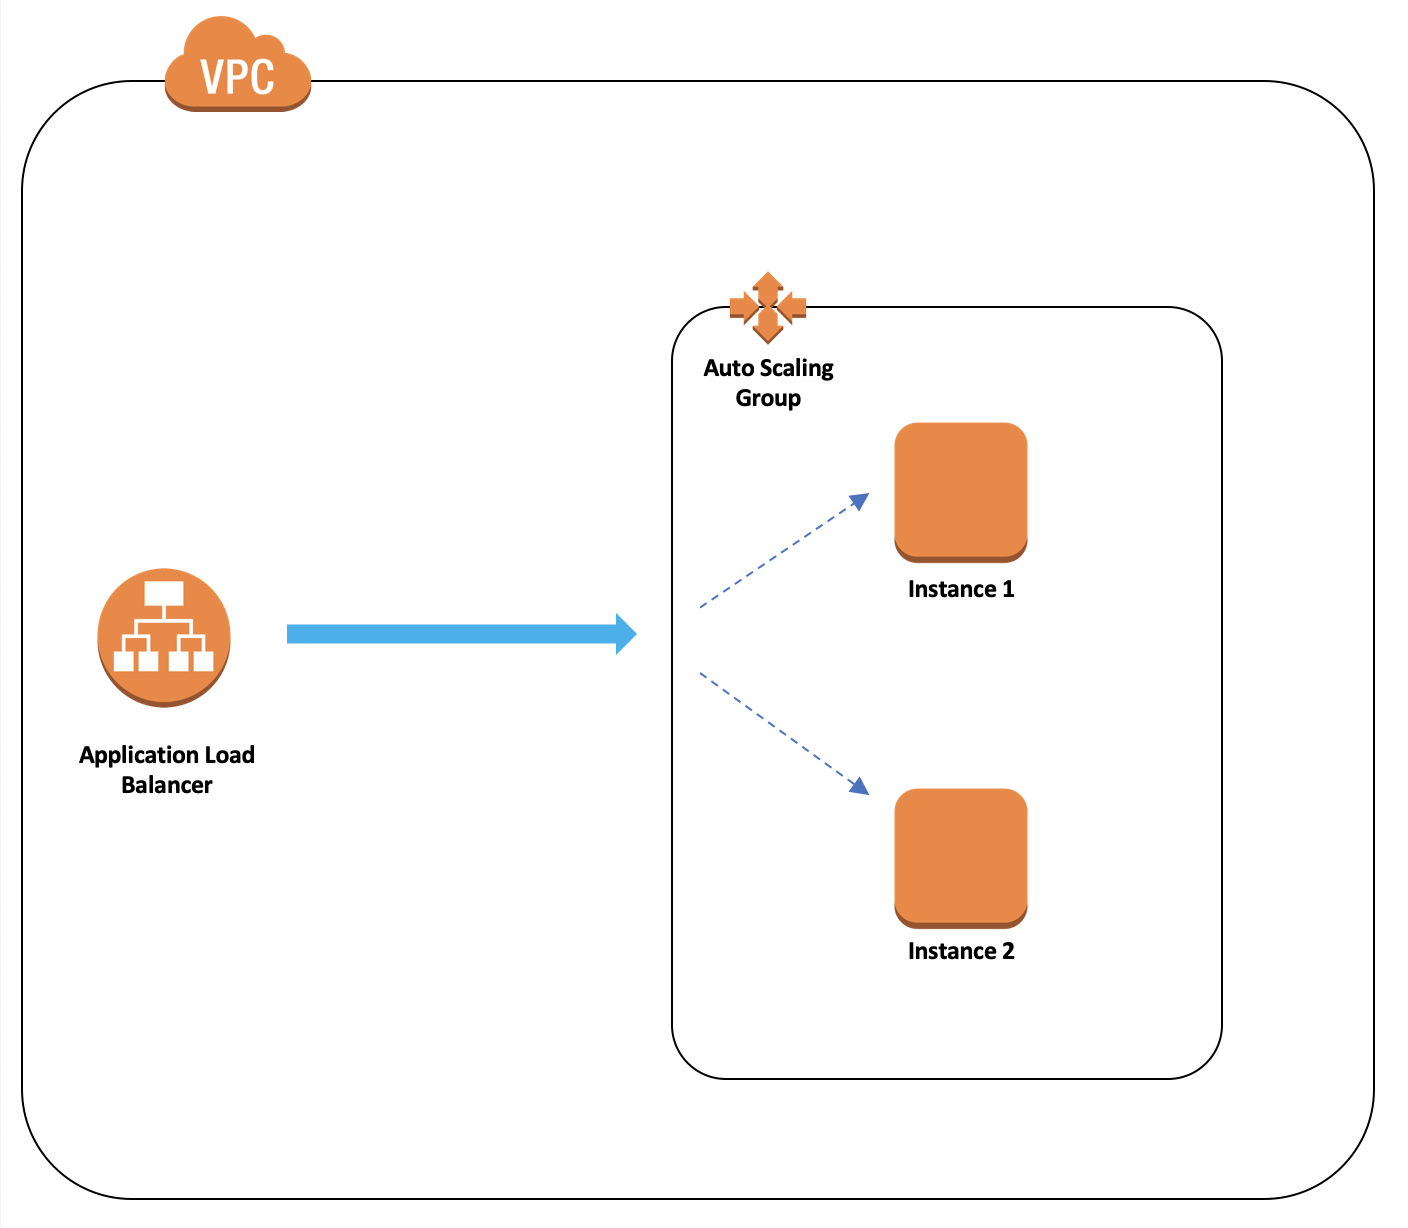
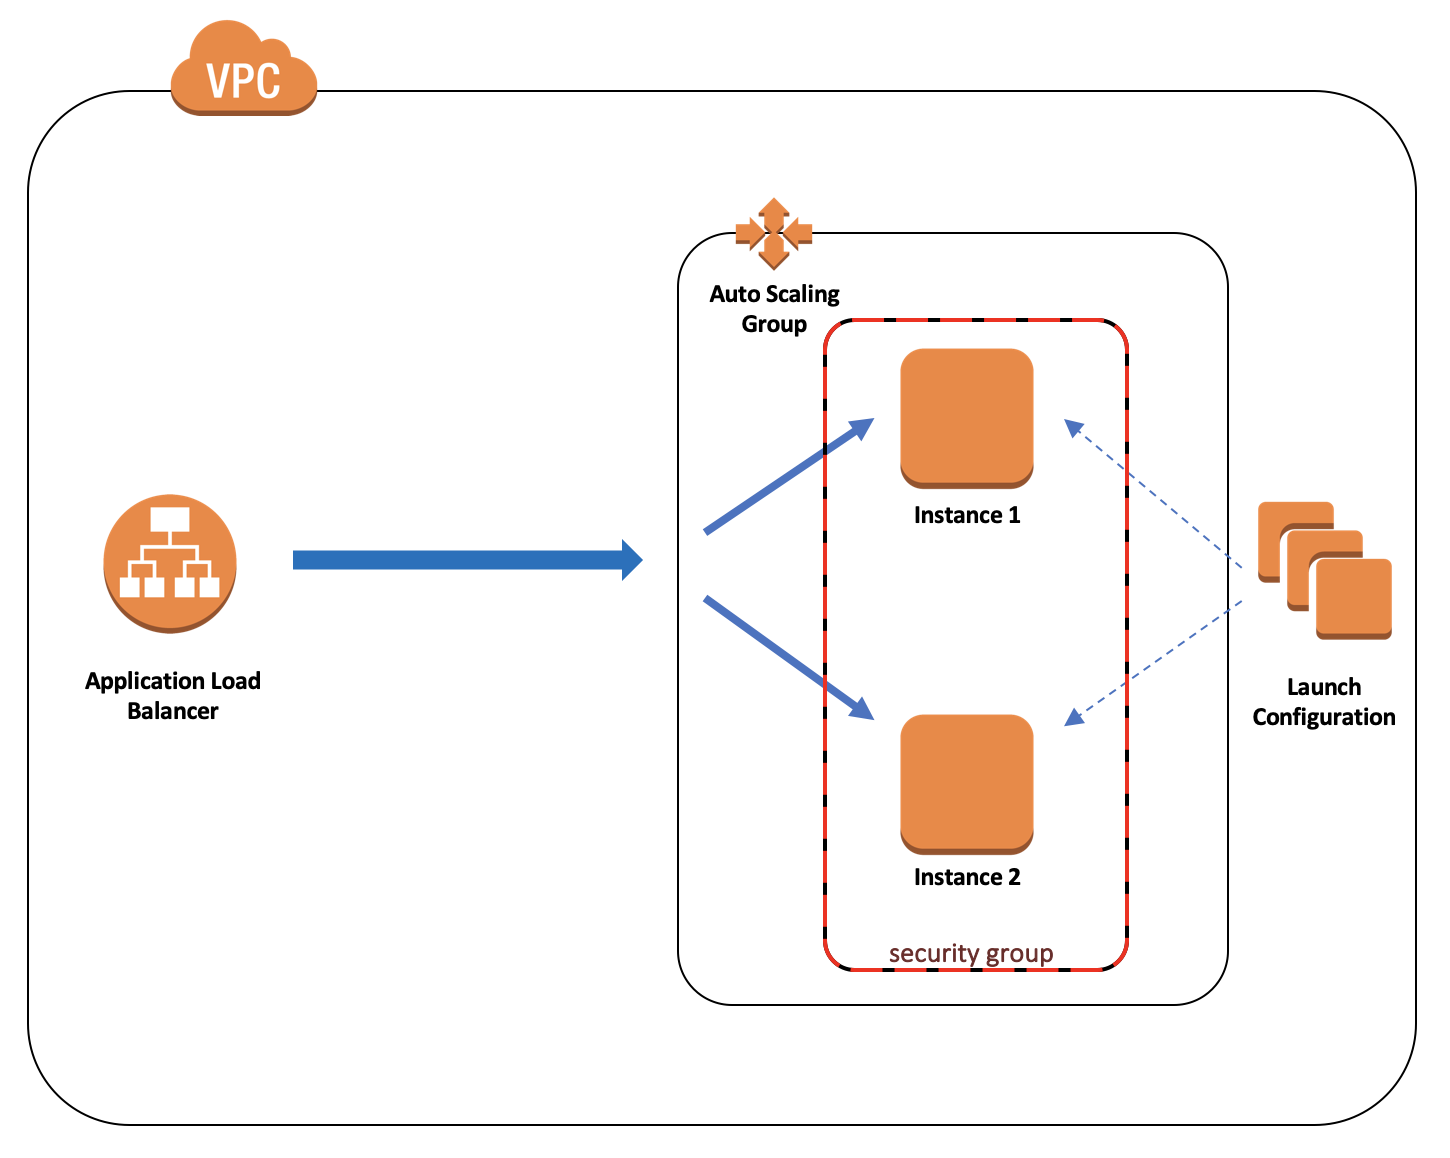
Lab finalized

diff --git a/README.md b/README.md
@@ -11,17 +11,24 @@ That will cover the following topics:
 This lab will take approximately 60 minutes.
 
 ## Overview of technology
-AWS EC2 is usually referenced to a set of services built around virtual machines, some of which are:
+AWS EC2 is usually referenced to a set of services built around virtual machines. Some important terms related to EC2 service and which we'll use in the lab include:
 - EC2 - instances of virtual machines
-- EBS - a block storage, basically virtual disks (and their snapshots) which could be attached to EC2 instances
+- EBS - a block storage, basically virtual disks (and their snapshots) which could be attached to EC2 instances (not used in this lab)
 - AMI - images of EC2 instances
-- ELB - load balancers
-- ASG - auto scaling groups, abstraction which allows to scale up and down the number of the EC2 instances based on different parameters
+- ELB (ALB) - elastic (application) load balancers, balance traffic between instances
+- TG - target groups, rules used by ALB to define path of a network traffic
+- ASG - auto scaling groups, abstraction which allows to scale up and down the number of EC2 instances based on different parameters
+- LC - launch configuration, contains details of instances to be created by ASG
+- SG - security groups, abstraction which manages inbound and outbound network traffic rules
 
 Let's spin up some EC2 instances to see how it works
-## Launch a standalone EC2 instance
+
+## **_Exercise 1:_ Create a simple website on a standalone EC2 instance**
+This is a basic scenario, but it's important to understand main concepts and be able to tackle more complex cases<br>
 Our HTTP server will consist of a single host and be based on Apache HTTP server<br>
 Let's do that!
+
+### Launch an EC2 instance
 * Open https://console.aws.amazon.com/ and log in to your AWS account<br>
 * Select Services -> EC2 in drop down menu or search for EC2 in service finder
 * In opened page you will see a EC2 home page and also a list of services on the left and
@@ -35,7 +42,7 @@ Awesome! You've gone through the steps and created a EC2 instance!<br>
 Now you can see it in the instances list:<br>
 ![Running](images/ec2-running.png "Running")<br>
 
-## Create a simple HTTP server
+### Create a simple HTTP server
 Having a EC2 instance running, let's now install and launch a Apache HTTP server with a simple page:
 * In AWS Console, go to EC2 service and find your EC2 instance. Click on it and on Description tab find and copy a `IPv4 Public IP` field value. We'll be referencing this value as `<your_ec2_ip>`
 * Open your terminal and type `ssh ec2-user@<your_ec2_ip> -i <path_to_credentials>` where <br>
@@ -70,7 +77,7 @@ The last thing you need is to allow external HTTP traffic to your EC2 instance -
 Now copy `Public DNS (IPv4)` value from your instance and paste into URL of your browser - you should be able to see your HTML page!<br>
 ![Awesome](images/ec2-awesome.png "Awesome")<br>
 
-## Stop instance via AWS CLI
+### Terminate instance via AWS CLI
 Before we move forward, let's cleanup our workspace and terminate our EC2 instance. The only trick is that we're going to use command line for that<br>
 Assuming you've [installed](https://docs.aws.amazon.com/cli/latest/userguide/installing.html) and [configured](https://docs.aws.amazon.com/cli/latest/userguide/cli-chap-getting-started.html
 ) AWS CLI, commands will be as follows:
@@ -84,40 +91,101 @@ A bit more code, huh?? But we've got only values we need: `InstanceId` of the in
 
 <h4>Well done! Let's move to the next challenge!</h4>
 
-## Create load-balanced web application
+## **_Exercise 2:_ Create load-balanced web application**
 Here is a diagram of a solution we're going to build:<br>
 ![ALB](images/ec2-alb.png "ALB")<br>
+
 Let's do that!
 
 ### Create Launch Configuration
 * In AWS Console, go to `EC2` service
 * Click on `Launch Configurations` in the left panel, then `Create launch configuration`
-* Select `Amazon Linux 2 AMI`, then `t2.micro`
-* Specify `Name` for launch configuration as `foundation-labs-ec2-lc-<your_name>`
-* In `Advanced Details` set `User data` as follows:<br>
+* `Choose AMI` step:
+  * Select `Amazon Linux 2 AMI`
+* `Choose Instance type` step:
+  * Select `t2.micro`
+* `Configure details` step:
+  * Specify `Name` as `foundation-labs-ec2-lc-<your_name>`
+  * Advanced Details: set `User data` as follows:<br>
 ```
-sudo su -
-yum update
-yum install httpd
-service httpd start
-cd /var/www/html
-touch index.html
-echo '
+#!/bin/bash
+sudo yum update
+sudo yum install -y httpd
+sudo service httpd start
+sudo chkconfig httpd on
+sudo touch /var/www/html/index.html
+sudo echo '
 <html>
 <head></head>
-<body><h2>Hello OCTO!</h2><h3>This is my AWS EC2 load balanced website!</h3></body>
-</html>' > index.html
+<body><h2>Hello OCTO!</h2><h3>This is my AWS EC2 load balanced website!</h3>This page is served from instance <b>'`curl http://169.254.169.254/latest/meta-data/public-hostname)`'</b></body>
+</html>' > /var/www/html/index.html
 ```
-* Also set `IP Address Type` to `Do not assign a public IP address to any instances`
-* Proceed with all other options as default, in one of the final screens you will be asked for `Key-Value-Pair`: select existing one, which we created previously for our single EC2 instance (`foundation-labs-kp-<your_name>`)
+  * Advanced Details: `IP Address Type` -> `Do not assign a public IP address to any instances`
+* `Configure Security Group` step:
+  * Select `Create a new security group`
+  * Set `Security group name` as `foundation-labs-ec2-sg-<your_name>`
+  * Add rule: `Type` -> `HTTP` and `Port Range` -> `80` and `Source` -> `Anywhere, 0.0.0.0/0`
+* Proceed with all other options as default, in one of the final screens you will be asked for `Key-Pair`: select existing one, which we created previously for our single EC2 instance (`foundation-labs-kp-<your_name>`)
 
 ### Create Application Load Balancer
 * In AWS Console, go to `EC2` service
-* Click on `Auto Scaling Groups` in the left panel, then
+* Click on `Load balancers` in the left panel, then `Create Load Balancer`
+* Choose `Application Load Balancer`, as we want to use it with http traffic for our website
+* `Configure Load Balancer` step:
+  * Set Name as `foundation-labs-lb-<your_name>`. Add `Name` tag with same value
+  * Choose `internet-facing` schema
+  * Select `default` VPC and put checkboxes against all availability zones
+  * Listener should be pointing to `HTTP:80`
+* `Configure Security Groups` page:
+  * Create a new group with name `foundation-labs-sg-<your_name>`, put the same in description
+  * Leave default rule as is (HTTP:80)
+* `Configure Routing` page:
+  * Select `New target group`. Set name as `foundation-labs-tg-<your_name>`
+  * Set `protocol` and `port` to `HTTP` and `80` respectively
+  * Set `Target type` to `instance`
+  * Health check as default: `HTTP`, `/`
+* Finalise and create Load Balancer
+
+It'll take some time for AWS to provision our load balancer, so keep an eye on its status in the `Load Balancers` list. We're ready to go when it's changed to `active`
 
 ### Create Auto Scaling Groups
 * In AWS Console, go to `EC2` service
-* Click on `Auto Scaling Groups` in the left panel, then `Create Auto Scaling Groups`, then select `Launch Template` option
-* In the list of templates select the one you've created on a previous steps
-* On the next page, set `Group size = 2`
-* In Advanced Details, select `Load Balancing -> Receive traffic from one or more load balancers`
+* Click on `Auto Scaling Groups` in the left panel, then `Create Auto Scaling Groups`, then select `Launch Configuration` option
+* Select `Use an existing launch configuration` and in the list below select the one we've created in one of the previous steps
+* `Configure Auto Scaling group details` page:
+  * Set `Group name` as `foundation-labs-ec2-asg-<your_name>`
+  * Set `Group size = 2`
+  * Select `default` VPC in Network field
+  * Select one of the subnets
+  * Advanced Details: `Load Balancing` -> `Receive traffic from one or more load balancers`
+  * Advanced Details: `Target Groups` -> `foundation-labs-ec2-tg-<your_name>`
+* `Configure Tags` page:
+  * Add `Name` tag with `foundation-labs-ec2-asg-<your_name>` value. Make sure that `Tag instances` is checked
+* Finalise and create our Auto Scaling Group
+
+Now you can click on your new ASG in the list and check that `Instances` tab displays 2 instances being provisioned
+
+### Test your website
+In the steps above, we've created a load balanced web application which receives traffic from internet and redirects it to instances of auto scaling group in round-robin manner. To verify that, we'll query our load balancer endpoint few times in a row and check that web page is served from different instances:
+* In AWS Console, go to `EC2` service
+* Click on `Load balancers` in the left panel, then on load balancer we've created earlier
+* Copy `DNS Name` value and paste it into browser's URL field. It should display a page from one of the instances
+* If you reload a page few times, you'd see that instance name has changed, as it's directed by load balancer to a different instance:
+![Instance2](images/ec2-instance-lb.png "Instance2")<br>
+
+#### Congratulations!!! You've successfully created and tested a load balanced application!
+![Woohoo!](images/ec2-woohoo.jpg "Woohoo!")<br>
+
+### Clean up the workspace
+To conclude our lab, let's delete all resources we've created so far. Here is an order of actions to perform:
+* Delete Load Balancer
+* Delete Auto Scaling Group (it also terminates related instances)
+* Delete Launch Configuration
+* Delete Target Group
+* Delete Security Group
+* Delete Key Pair (you can leave it and use for future tasks)
+
+## Well done!
+This concludes our AWS EC2 lab<br>
+Feel free to create issues if you found any problems or have suggestions on the lab improvements<br>
+Also don't hesitate to submit pull requests to this repo ;)  
